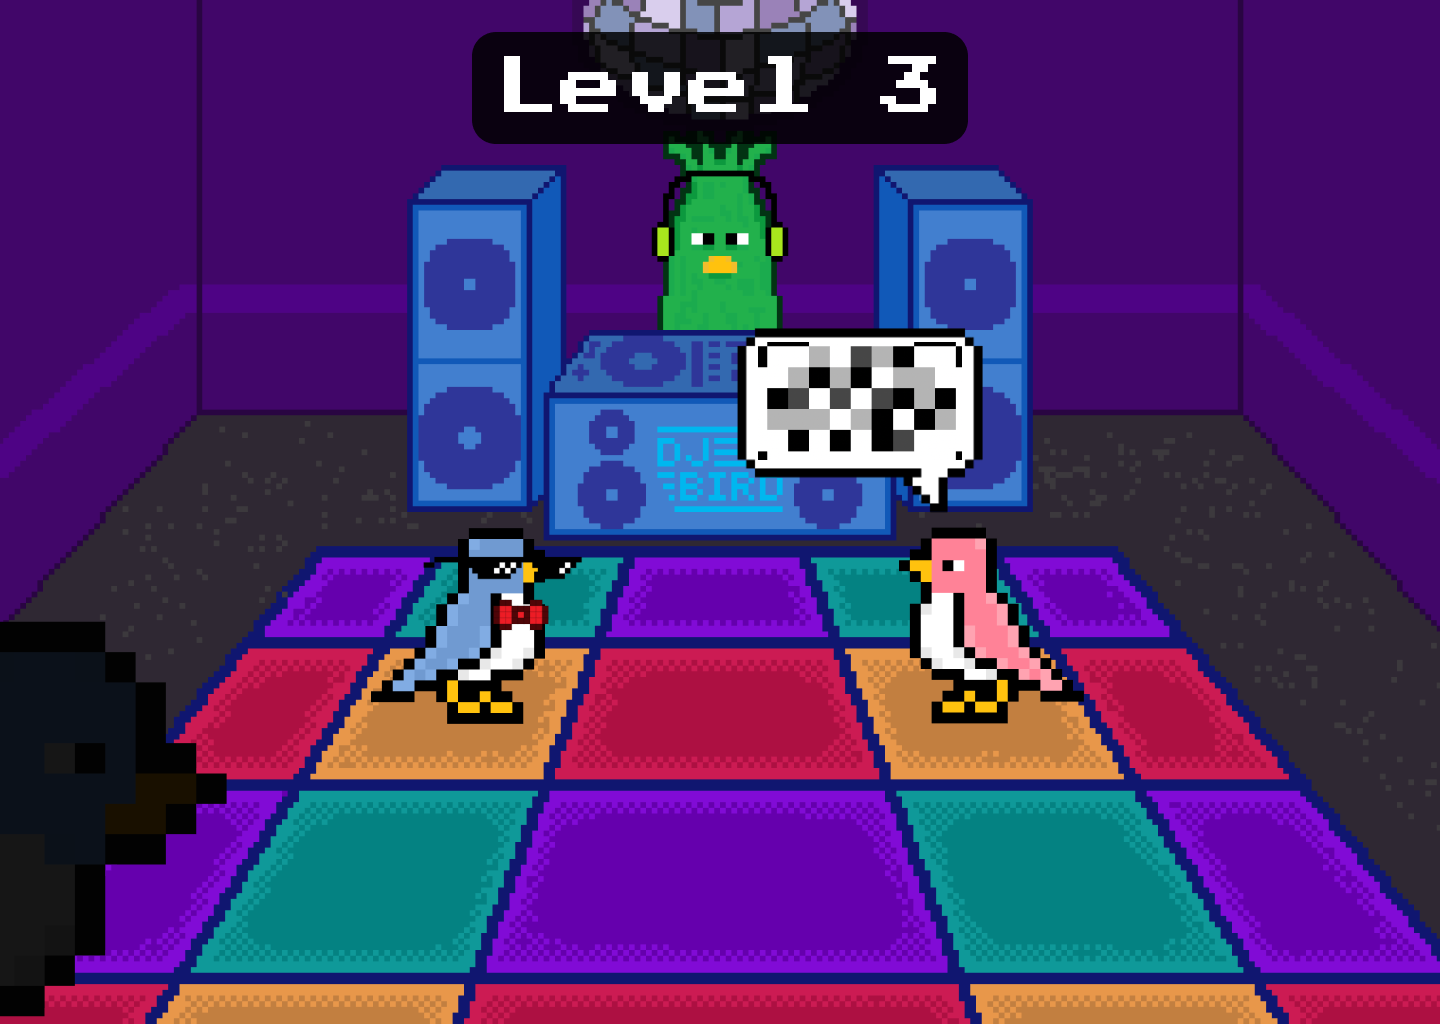
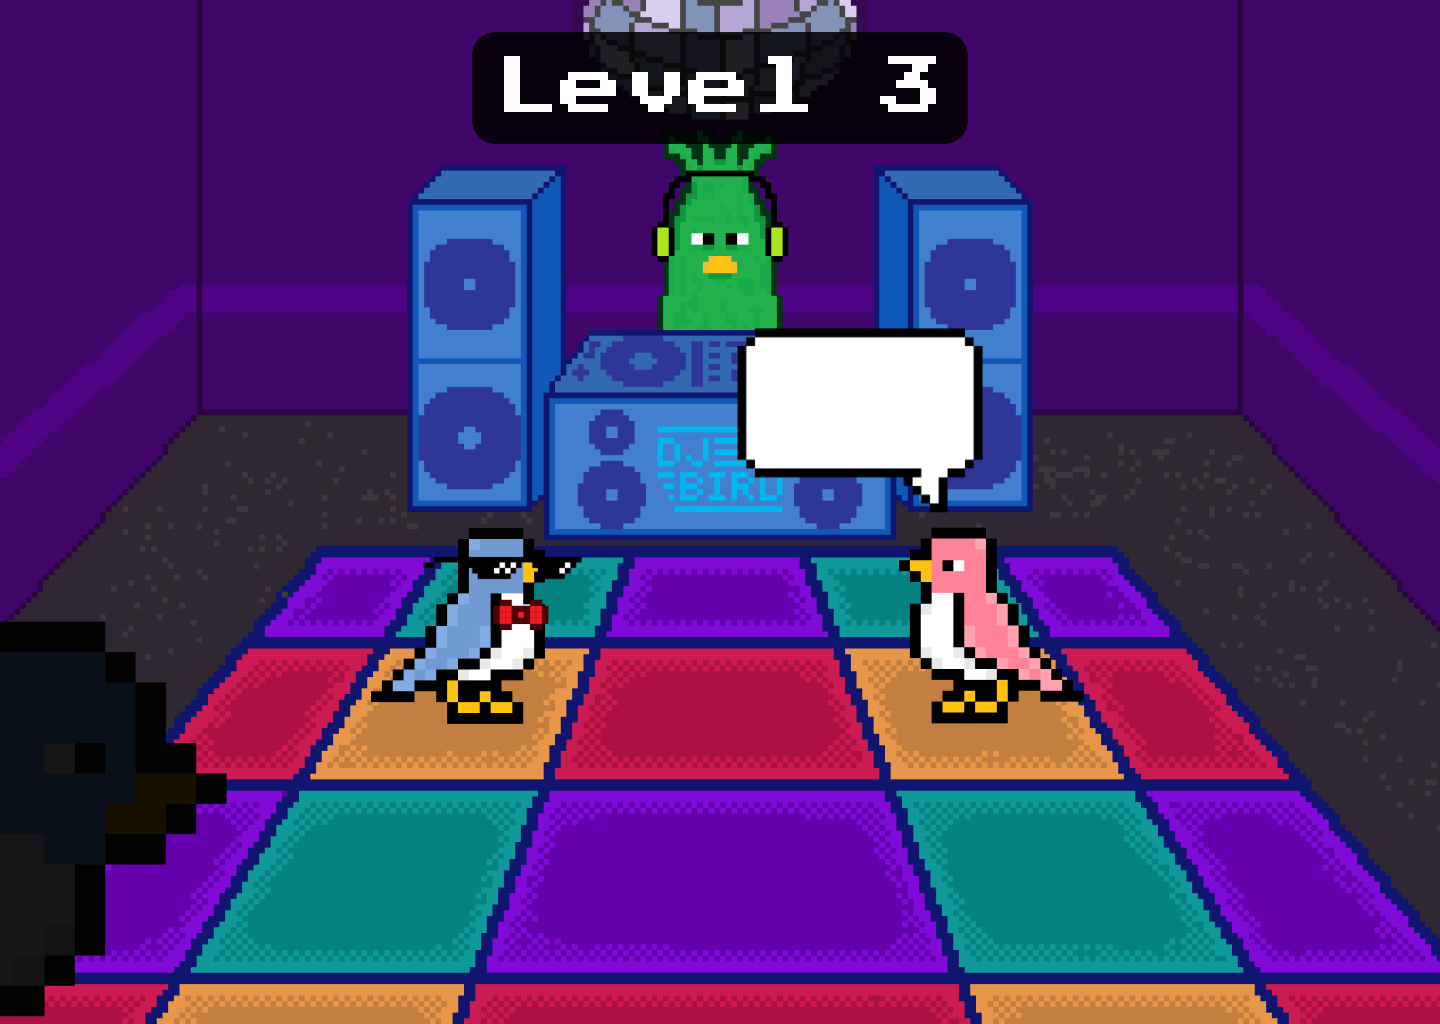
works kinda

Changed region(s): [[0.5312, 0.3125, 0.6875, 0.4375]]

diff --git a/public/game-logic.js b/public/game-logic.js
@@ -48,79 +48,28 @@ let inputProcessed = false; // To prevent multiple inputs from a single key pres
 let currentBirdDirection = "right"; // Default direction for the player's bird
 let rightInput = 0;
 let wrongInput = 0;
+let timeRemaining = gameTimeLimit;
 
 // Pattern variables
-let currentPatternType = "worm"; // default pattern
-
-// Multiplayer state variables
-let socket;
-let myRole = null;
-let myId = null;
-let connectedPlayers = new Set();
-let currentWord = null;
-let isGameOver = false;
-
-// p5.party shared state
-let party = {
-  timeRemaining: gameTimeLimit,
-  gameStartTime: 0,
-  isGameActive: false,
-  playerWon: false,
+let levelPatterns = {
+  1: "",
+  2: "",
+  3: "",
 };
 
-function resetGameTimer() {
-  party.gameStartTime = millis();
-  party.timeRemaining = gameTimeLimit;
-  party.isGameActive = true;
-  party.playerWon = false;
-  console.log("Timer reset, new start time:", party.gameStartTime);
+// Function to randomly select a pattern for a level
+function selectPatternForLevel(level) {
+  const patternTypes = Object.keys(patterns);
+  const randomPattern =
+    patternTypes[Math.floor(Math.random() * patternTypes.length)];
+  levelPatterns[level] = randomPattern;
+  console.log(`Selected pattern for level ${level}: ${randomPattern}`);
 }
 
-// Initialize socket connection
-function initMultiplayer() {
-  socket = io();
-
-  socket.on("connect", () => {
-    myId = socket.id;
-    console.log("Connected to server with ID:", myId);
-  });
-
-  socket.on("playerJoined", (data) => {
-    connectedPlayers.add(data.playerId);
-    console.log("Player joined:", data.playerId);
-  });
-
-  socket.on("playerLeft", (data) => {
-    connectedPlayers.delete(data.playerId);
-    console.log("Player left:", data.playerId);
-  });
-
-  socket.on("roleSelected", (data) => {
-    console.log("Role selected:", data.role, "by player:", data.playerId);
-  });
-
-  socket.on("roleTaken", (data) => {
-    alert(
-      `The ${data.role} role is already taken! Please select the other role.`
-    );
-  });
-
-  socket.on("gameStateUpdated", (gameState) => {
-    console.log("Received game state update:", gameState);
-  });
-
-  // Update timer every second
-  setInterval(() => {
-    if (party.isGameActive) {
-      const currentTime = millis();
-      const elapsedTime = currentTime - party.gameStartTime;
-      party.timeRemaining = max(0, gameTimeLimit - elapsedTime);
-
-      if (party.timeRemaining <= 0) {
-        party.isGameActive = false;
-      }
-    }
-  }, 1000);
+function resetGameTimer() {
+  gameStartTime = millis();
+  timeRemaining = gameTimeLimit;
+  console.log("Timer reset, new start time:", gameStartTime);
 }
 
 // Initialize the direction game
@@ -133,19 +82,10 @@ function initDirectionGame() {
   resetGameTimer();
   isGameOver = false;
 
-  // Generate random word and sync with other player
-  const patternTypes = Object.keys(patterns);
-  currentPatternType =
-    patternTypes[Math.floor(Math.random() * patternTypes.length)];
-
-  if (myRole === "MALE_BIRD") {
-    // Generate and broadcast the word
-    currentWord = currentPatternType;
-    socket.emit("updateGameState", {
-      currentWord,
-      directionGameActive: true,
-    });
-  }
+  // Select patterns for each level if not already selected
+  if (!levelPatterns[1]) selectPatternForLevel(1);
+  if (!levelPatterns[2]) selectPatternForLevel(2);
+  if (!levelPatterns[3]) selectPatternForLevel(3);
 }
 
 // Process a single direction input
@@ -180,6 +120,7 @@ function processDirectionInput(keyCode) {
   // Get the current level's pattern
   const currentLevel =
     gameState === "PLAY" ? 1 : gameState === "LEVEL 2" ? 2 : 3;
+  const currentPatternType = levelPatterns[currentLevel];
   const currentPattern = patterns[currentPatternType][currentLevel];
 
   // Check if this input matches the expected pattern
@@ -254,6 +195,17 @@ function drawDirectionGame(background, winningImage, level) {
   imageMode(CORNER);
   image(background, 0, 0, 720, 513);
 
+  // Draw the pattern based on the current level's pattern type
+  const currentPatternType = levelPatterns[level];
+  if (currentPatternType && assets.patterns[currentPatternType]) {
+    console.log("currentPatternType", currentPatternType);
+    // Center the pattern image
+    const patternImage = assets.patterns[currentPatternType];
+    const x = width / 2 + 48;
+    const y = height / 2 - 72;
+    image(patternImage, x, y, 48, 48);
+  }
+
   // Check win condition first
   if (playerWon) {
     // Player completed level successfully
@@ -279,10 +231,11 @@ function drawDirectionGame(background, winningImage, level) {
   if (directionGameActive && !playerWon) {
     // Calculate time remaining
     let timeElapsed = millis() - gameStartTime;
-    let seconds = floor(party.timeRemaining / 1000);
+    timeRemaining = max(0, gameTimeLimit - timeElapsed);
+    let seconds = floor(timeRemaining / 1000);
 
     // Check time's up condition
-    if (party.timeRemaining <= 0) {
+    if (timeRemaining <= 0) {
       // Time's up - display lose background
       imageMode(CORNER);
       image(assets.backgrounds.lose, 0, 0, 720, 513);
@@ -291,9 +244,6 @@ function drawDirectionGame(background, winningImage, level) {
       text("TIME'S UP!", width / 2, height - 72);
       textSize(24);
       resetButton.draw();
-
-      // Notify other player of game over
-      socket.emit("gameOver", { reason: "timeout" });
       return;
     }
 
@@ -437,7 +387,10 @@ function handleReset() {
   wrongInput = 0;
   currentBirdDirection = "right";
   resetGameTimer();
-
-  // Notify other player of game reset
-  socket.emit("gameReset");
+  // Reset level patterns
+  levelPatterns = {
+    1: "",
+    2: "",
+    3: "",
+  };
 }

diff --git a/public/sketch.js b/public/sketch.js
@@ -18,9 +18,6 @@ function setup() {
   createCanvas(720, 513);
   textAlign(CENTER, CENTER);
 
-  // Initialize multiplayer
-  initMultiplayer();
-
   // Ensure the button is created AFTER canvas is set up
   startButton = new Button(width / 2 - 108, height - 140, 172, 60, "START");
   instructionButton = new Button(
@@ -197,12 +194,6 @@ function drawMaleBirdScreen() {
       playerInputs = [];
       drawPositions = [];
       playerWon = false;
-
-      // Sync game state with other player
-      socket.emit("updateGameState", {
-        directionGameActive: true,
-        gameStartTime: gameStartTime,
-      });
     }
 
     // Draw direction game
@@ -239,19 +230,8 @@ function drawWingmanScreen() {
     }
 
     wingmanResetButton.draw();
-
-    // Draw the pattern based on the current pattern type
-    if (currentPatternType && assets.patterns[currentPatternType]) {
-      console.log("currentPatternType", currentPatternType);
-      // Center the pattern image
-      const patternImage = assets.patterns[currentPatternType];
-      const x = width / 2 + 125;
-      const y = height / 2 - 72;
-      image(patternImage, x, y, 64, 64);
-    }
-
-    // Check if male bird won using p5.party shared state
-    if (party.playerWon) {
+    // Check if male bird won
+    if (playerWon) {
       // Show win screen
       if (gameState === "PLAY") {
         image(assets.backgrounds.win, 0, 0, width, height);
@@ -335,7 +315,7 @@ function mousePressed() {
   }
   lastClickTime = currentTime;
 
-  if (nextButton.isClicked()) {
+  if (nextButton && nextButton.isClicked()) {
     instructionCounter++;
     console.log("instructionCounter", instructionCounter);
   }
@@ -358,7 +338,7 @@ function mousePressed() {
   }
 
   // Handle wingman level transitions
-  if (selectedRole === "WINGMAN" && party.playerWon) {
+  if (selectedRole === "WINGMAN" && playerWon) {
     if (lvlButton.isClicked() && gameState === "PLAY") {
       gameState = "LEVEL 2";
       instructionCounter = 0;
@@ -412,8 +392,6 @@ function mousePressed() {
       mouseY < 320 + 120
     ) {
       selectedRole = "WINGMAN";
-      socket.emit("selectRole", "WINGMAN");
-
       gameState = "PLAY";
       counter = 0;
       final = false;
@@ -428,8 +406,6 @@ function mousePressed() {
       mouseY < 320 + 120
     ) {
       selectedRole = "MALE_BIRD";
-      socket.emit("selectRole", "MALE_BIRD");
-
       gameState = "PLAY";
       counter = 0;
       final = false;

diff --git a/public/index.html b/public/index.html
@@ -3,38 +3,16 @@
   <head>
     <meta charset="UTF-8" />
     <meta name="viewport" content="width=device-width, initial-scale=1.0" />
-    <title>Love Birds Game</title>
-    <style>
-      body {
-        margin: 0;
-        padding: 0;
-        display: flex;
-        justify-content: center;
-        align-items: center;
-        height: 100vh;
-        background-color: #f0f0f0;
-      }
-      canvas {
-        display: block;
-      }
-    </style>
-
-    <!-- Load p5.js libraries -->
-    <script src="https://cdnjs.cloudflare.com/ajax/libs/p5.js/1.7.0/p5.min.js"></script>
-    <script src="https://cdnjs.cloudflare.com/ajax/libs/p5.js/1.7.0/addons/p5.sound.min.js"></script>
-
-    <!-- Load Socket.IO -->
-    <script src="/socket.io/socket.io.js"></script>
-
-    <!-- Load p5.party -->
-    <script src="https://cdn.jsdelivr.net/npm/p5.party@0.1.0/dist/p5.party.min.js"></script>
-
-    <!-- Load your scripts in the correct order -->
+    <title>Love Birds</title>
+    <!-- Load p5.js and its addons -->
+    <script src="https://cdnjs.cloudflare.com/ajax/libs/p5.js/1.4.0/p5.min.js"></script>
+    <script src="https://cdnjs.cloudflare.com/ajax/libs/p5.js/1.4.0/addons/p5.sound.min.js"></script>
+    <link rel="stylesheet" href="style.css" />
+  </head>
+  <body>
+    <!-- Load game scripts in the correct order -->
     <script src="assets.js"></script>
     <script src="game-logic.js"></script>
     <script src="sketch.js"></script>
-  </head>
-  <body>
-    <!-- p5.js will create the canvas element -->
   </body>
 </html>

diff --git a/public/style.css b/public/style.css
@@ -1,0 +1,13 @@
+body {
+  margin: 0;
+  padding: 0;
+  display: flex;
+  justify-content: center;
+  align-items: center;
+  height: 100vh;
+  background-color: #f0f0f0;
+}
+
+canvas {
+  display: block;
+}
